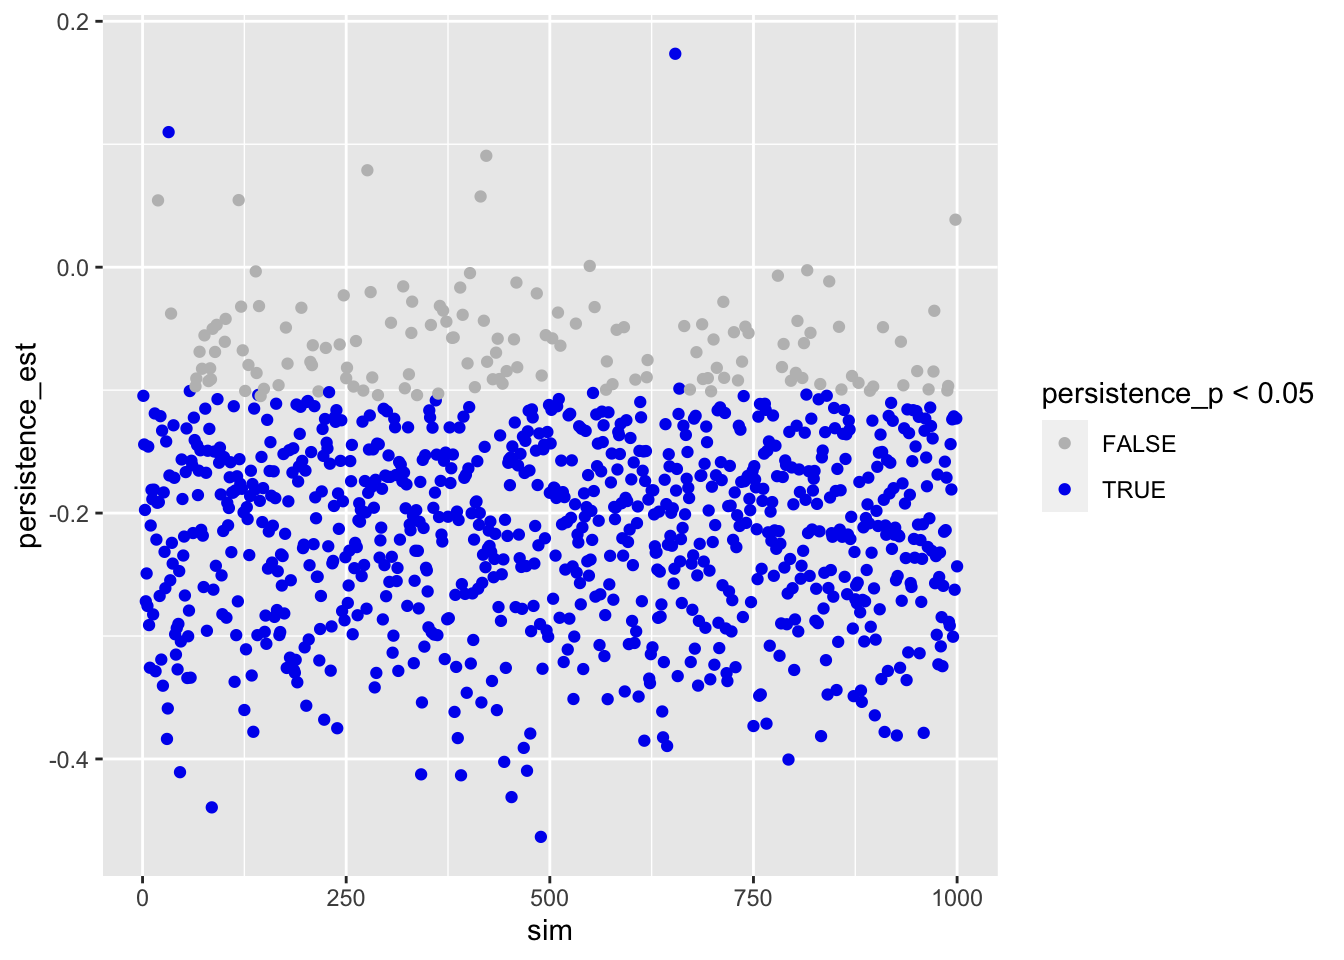
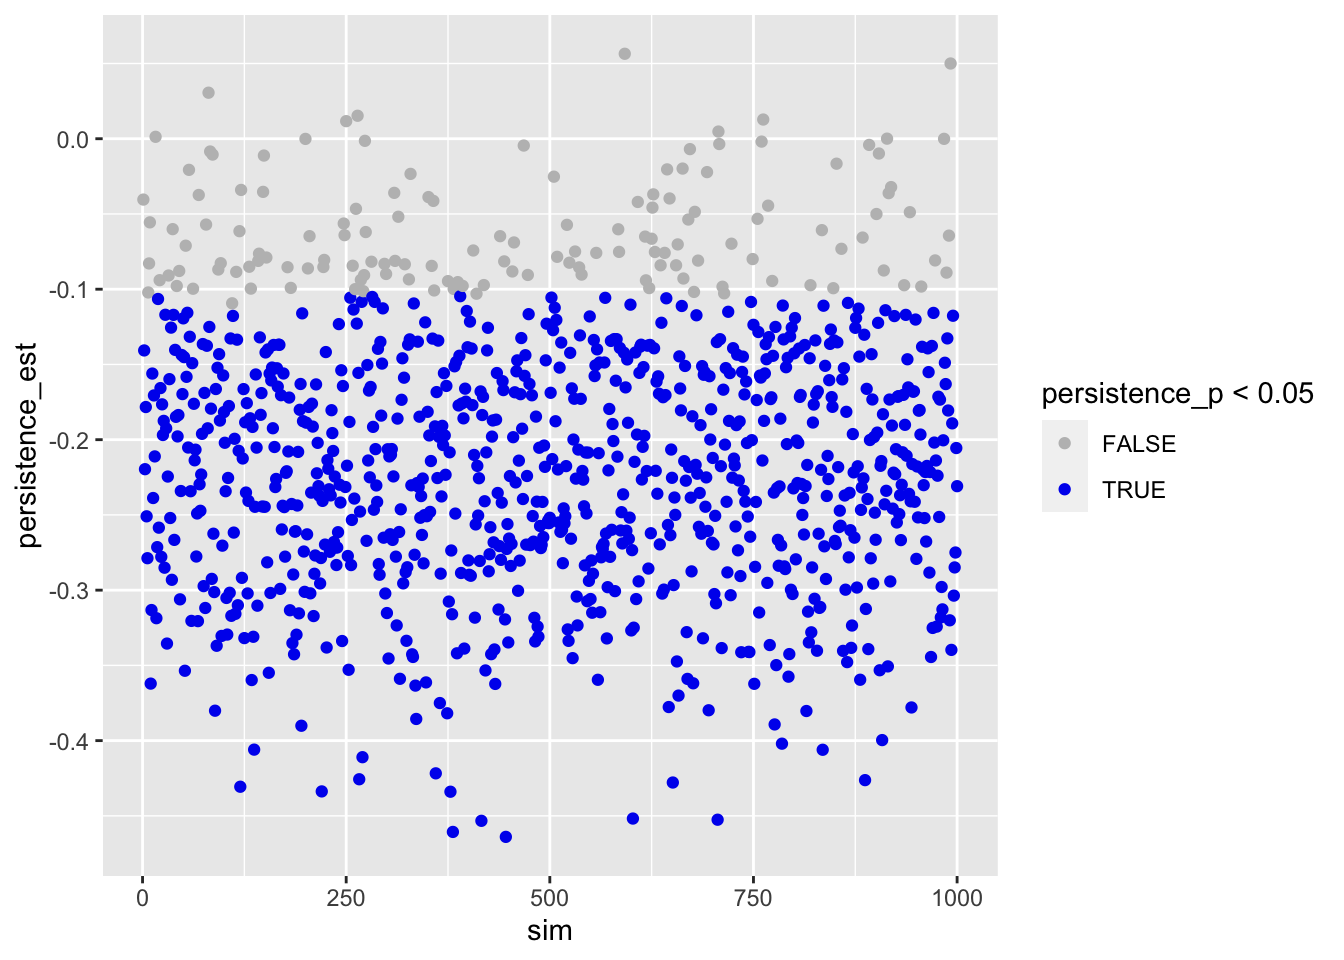
- update

diff --git a/power analysis/power_analysis.html b/power analysis/power_analysis.html
@@ -474,12 +474,12 @@ sd_est &lt;- 1</code></pre>
   summarize(mean = mean(words), .groups = &#39;drop&#39;)
 means</code></pre>
 <pre><code>## # A tibble: 4 × 3
-##   persistence identification     mean
-##         &lt;dbl&gt;          &lt;dbl&gt;    &lt;dbl&gt;
-## 1           0              0 -0.00882
-## 2           0              1 -0.197  
-## 3           1              0 -0.0403 
-## 4           1              1 -0.453</code></pre>
+##   persistence identification    mean
+##         &lt;dbl&gt;          &lt;dbl&gt;   &lt;dbl&gt;
+## 1           0              0 -0.0514
+## 2           0              1 -0.237 
+## 3           1              0 -0.257 
+## 4           1              1 -0.568</code></pre>
 <p>Sample size small and single study, but general tendency seems to be alright.</p>
 <p>Let’s also quickly run regression.</p>
 <pre class="r"><code>lm(words ~ persistence + identification, d) %&gt;% 
@@ -489,20 +489,20 @@ means</code></pre>
 ## lm(formula = words ~ persistence + identification, data = d)
 ## 
 ## Residuals:
-##      Min       1Q   Median       3Q      Max 
-## -2.74332 -0.67846 -0.01185  0.69900  2.59851 
+##     Min      1Q  Median      3Q     Max 
+## -2.9286 -0.6928 -0.0771  0.7193  2.9894 
 ## 
 ## Coefficients:
-##                Estimate Std. Error t value      Pr(&gt;|t|)    
-## (Intercept)     0.04731    0.04506   1.050       0.29392    
-## persistence    -0.14374    0.05203  -2.763       0.00581 ** 
-## identification -0.30054    0.05203  -5.776 0.00000000934 ***
+##                Estimate Std. Error t value   Pr(&gt;|t|)    
+## (Intercept)    -0.01996    0.04669  -0.428      0.669    
+## persistence    -0.26851    0.05391  -4.981 0.00000071 ***
+## identification -0.24851    0.05391  -4.610 0.00000439 ***
 ## ---
 ## Signif. codes:  0 &#39;***&#39; 0.001 &#39;**&#39; 0.01 &#39;*&#39; 0.05 &#39;.&#39; 0.1 &#39; &#39; 1
 ## 
-## Residual standard error: 0.9872 on 1437 degrees of freedom
-## Multiple R-squared:  0.02774,    Adjusted R-squared:  0.02639 
-## F-statistic:  20.5 on 2 and 1437 DF,  p-value: 0.000000001667</code></pre>
+## Residual standard error: 1.023 on 1437 degrees of freedom
+## Multiple R-squared:  0.03105,    Adjusted R-squared:  0.02971 
+## F-statistic: 23.03 on 2 and 1437 DF,  p-value: 0.0000000001432</code></pre>
 <p>Results look reasonable. Both persistence and identification reduce disclosure.</p>
 </div>
 <div id="power-analysis" class="section level1">
@@ -537,8 +537,8 @@ sims</code></pre>
 <p><img src="power_analysis_files/figure-html/unnamed-chunk-11-1.png" width="672" /></p>
 <p>We compute average effect size.</p>
 <pre class="r"><code>apply(sims[c(&quot;per0_ide0_m&quot;, &quot;per0_ide1_m&quot;, &quot;per1_ide0_m&quot;, &quot;per1_ide1_m&quot;)], 2, mean)</code></pre>
-<pre><code>##  per0_ide0_m  per0_ide1_m  per1_ide0_m  per1_ide1_m 
-## -0.003559893 -0.202056583 -0.197057465 -0.399849369</code></pre>
+<pre><code>##   per0_ide0_m   per0_ide1_m   per1_ide0_m   per1_ide1_m 
+##  0.0001110155 -0.1975263171 -0.2080526746 -0.3991319793</code></pre>
 <p>We compute power.</p>
 <pre class="r"><code>power &lt;- data.frame(
   persistence = sum(sims$persistence_p &lt; .05 &amp; sims$persistence_est &lt; 0) / n_sim,
@@ -546,7 +546,7 @@ sims</code></pre>
 )
 print(power)</code></pre>
 <pre><code>##   persistence identification
-## 1        0.86          0.846</code></pre>
+## 1       0.859          0.821</code></pre>
 </div>
 
 
